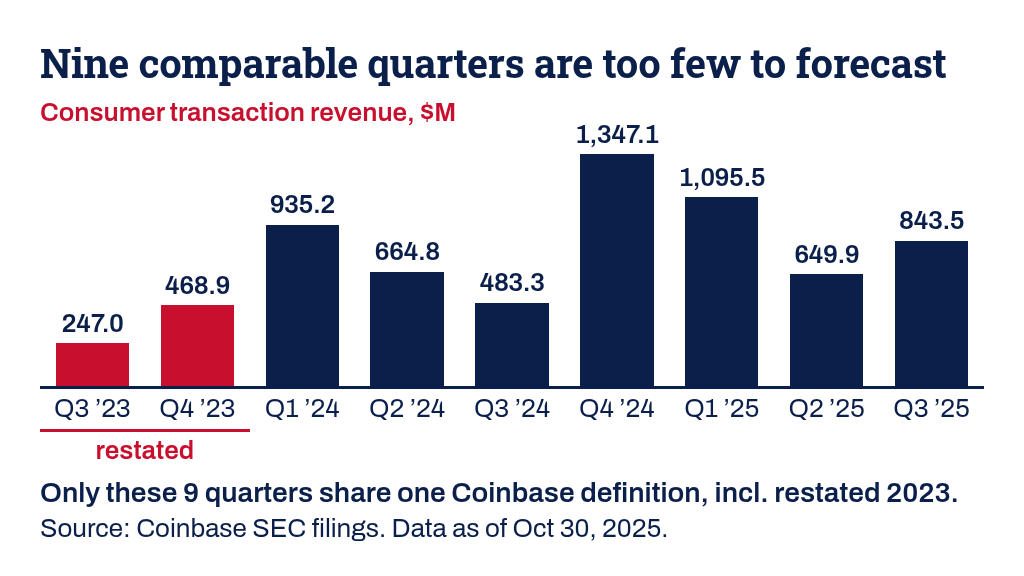
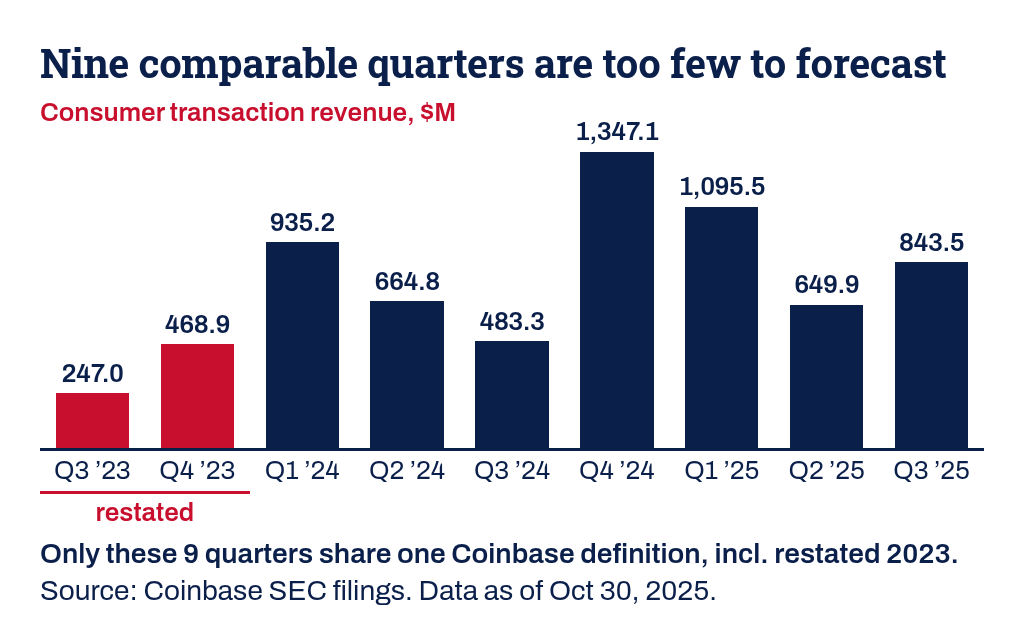
Render no-forecast landscape card at 1024x640, 28px source line, full alt text

diff --git a/scripts/build_no_forecast_card.py b/scripts/build_no_forecast_card.py
@@ -26,17 +26,19 @@ NAVY = "#0B1F4B"
 RED = "#C8102E"
 WIDTH = 1024
 MIN_PX = 26
+SRC_PX = 28
 
 TITLE = "Nine comparable quarters are too few to forecast"
 DEFINITION = "Only these 9 quarters share one Coinbase definition, incl. restated 2023."
 ALT = (
-    "Only these 9 quarters share one Coinbase definition, including Q3-Q4 2023 as restated "
-    "in Q1 2024; Coinbase later redefined trading volume."
+    "Bar chart of Coinbase consumer transaction revenue, $M, Q3 2023 to Q3 2025: 247.0, 468.9, "
+    "935.2, 664.8, 483.3, 1,347.1, 1,095.5, 649.9, 843.5. Q3-Q4 2023 are restated in Q1 2024. "
+    "Only these 9 quarters share one Coinbase definition; Coinbase later redefined trading volume."
 )
 METRIC = "consumer_transaction_revenue"
 
 # name -> (height px, title px, chart area px)
-CARDS = {"landscape": (576, 40, 232), "square": (1024, 56, 520)}
+CARDS = {"landscape": (640, 40, 296), "square": (1024, 56, 520)}
 
 
 def load_rows():
@@ -116,7 +118,7 @@ h1{{font:700 {title_px}px/1.15 'Roboto Slab',serif;letter-spacing:-.01em}}
 .restated{{margin-top:{MIN_PX + 14}px;border-top:3px solid {RED};text-align:center;color:{RED};font-weight:600;padding-top:2px}}
 .foot{{margin-top:{18 if name == "square" else 8}px}}
 .def{{font-size:28px;font-weight:600;white-space:nowrap}}
-.src{{font-size:{MIN_PX}px;margin-top:2px;white-space:nowrap}}
+.src{{font-size:{SRC_PX}px;margin-top:2px;white-space:nowrap}}
 </style>
 <div class="card" role="img" aria-label="{html.escape(ALT)}">
 <h1>{html.escape(TITLE)}</h1>
@@ -179,7 +181,7 @@ def main():
     if len(bars) != 9:
         sys.exit(f"expected 9 quarters of {METRIC}, found {len(bars)}")
     OUT_DIR.mkdir(parents=True, exist_ok=True)
-    (OUT_DIR / "alt-text.txt").write_text(ALT + "\n")
+    (OUT_DIR / "alt-text.txt").write_text(ALT)
     failed = False
     with tempfile.TemporaryDirectory(prefix="nf-card-") as tmp:
         for name, (height, _, _) in CARDS.items():

diff --git a/CHANGELOG.md b/CHANGELOG.md
@@ -8,7 +8,7 @@
 - `scripts/build_latest_bridge.py` writes the Q1 to Q2 2026 bridge to `outputs/final-package/latest-bridge.csv`; the case study site has a new section for it.
 - The validator gains `forecast_gate` and `latest_bridge` checks (17 in total). The suite has 18 tests.
 - Not rebuilt: the workbook (its builder is not in this repo), the PDFs (they need a macOS font) and the demo videos. They still cover Q3 to Q4 2024.
-- `scripts/build_no_forecast_card.py` renders the no-forecast chart card (landscape 1024x576, square 1024x1024) to `outputs/no-forecast-card/` from `analytics-ready-metrics.csv`, with alt text in `alt-text.txt`. It checks type size, the one-line 28px definition footer, and overflow in the rendered page. Fonts (Roboto Slab, Archivo) are in `scripts/card-fonts/` with their licenses.
+- `scripts/build_no_forecast_card.py` renders the no-forecast chart card (landscape 1024x640, square 1024x1024) to `outputs/no-forecast-card/` from `analytics-ready-metrics.csv`, with alt text in `alt-text.txt`. It checks type size, the one-line 28px definition footer, and overflow in the rendered page. The source line is 28px. The alt text now lists all nine bar values. Fonts (Roboto Slab, Archivo) are in `scripts/card-fonts/` with their licenses.
 
 ## v1.1.0 (2026-09-23)
 
